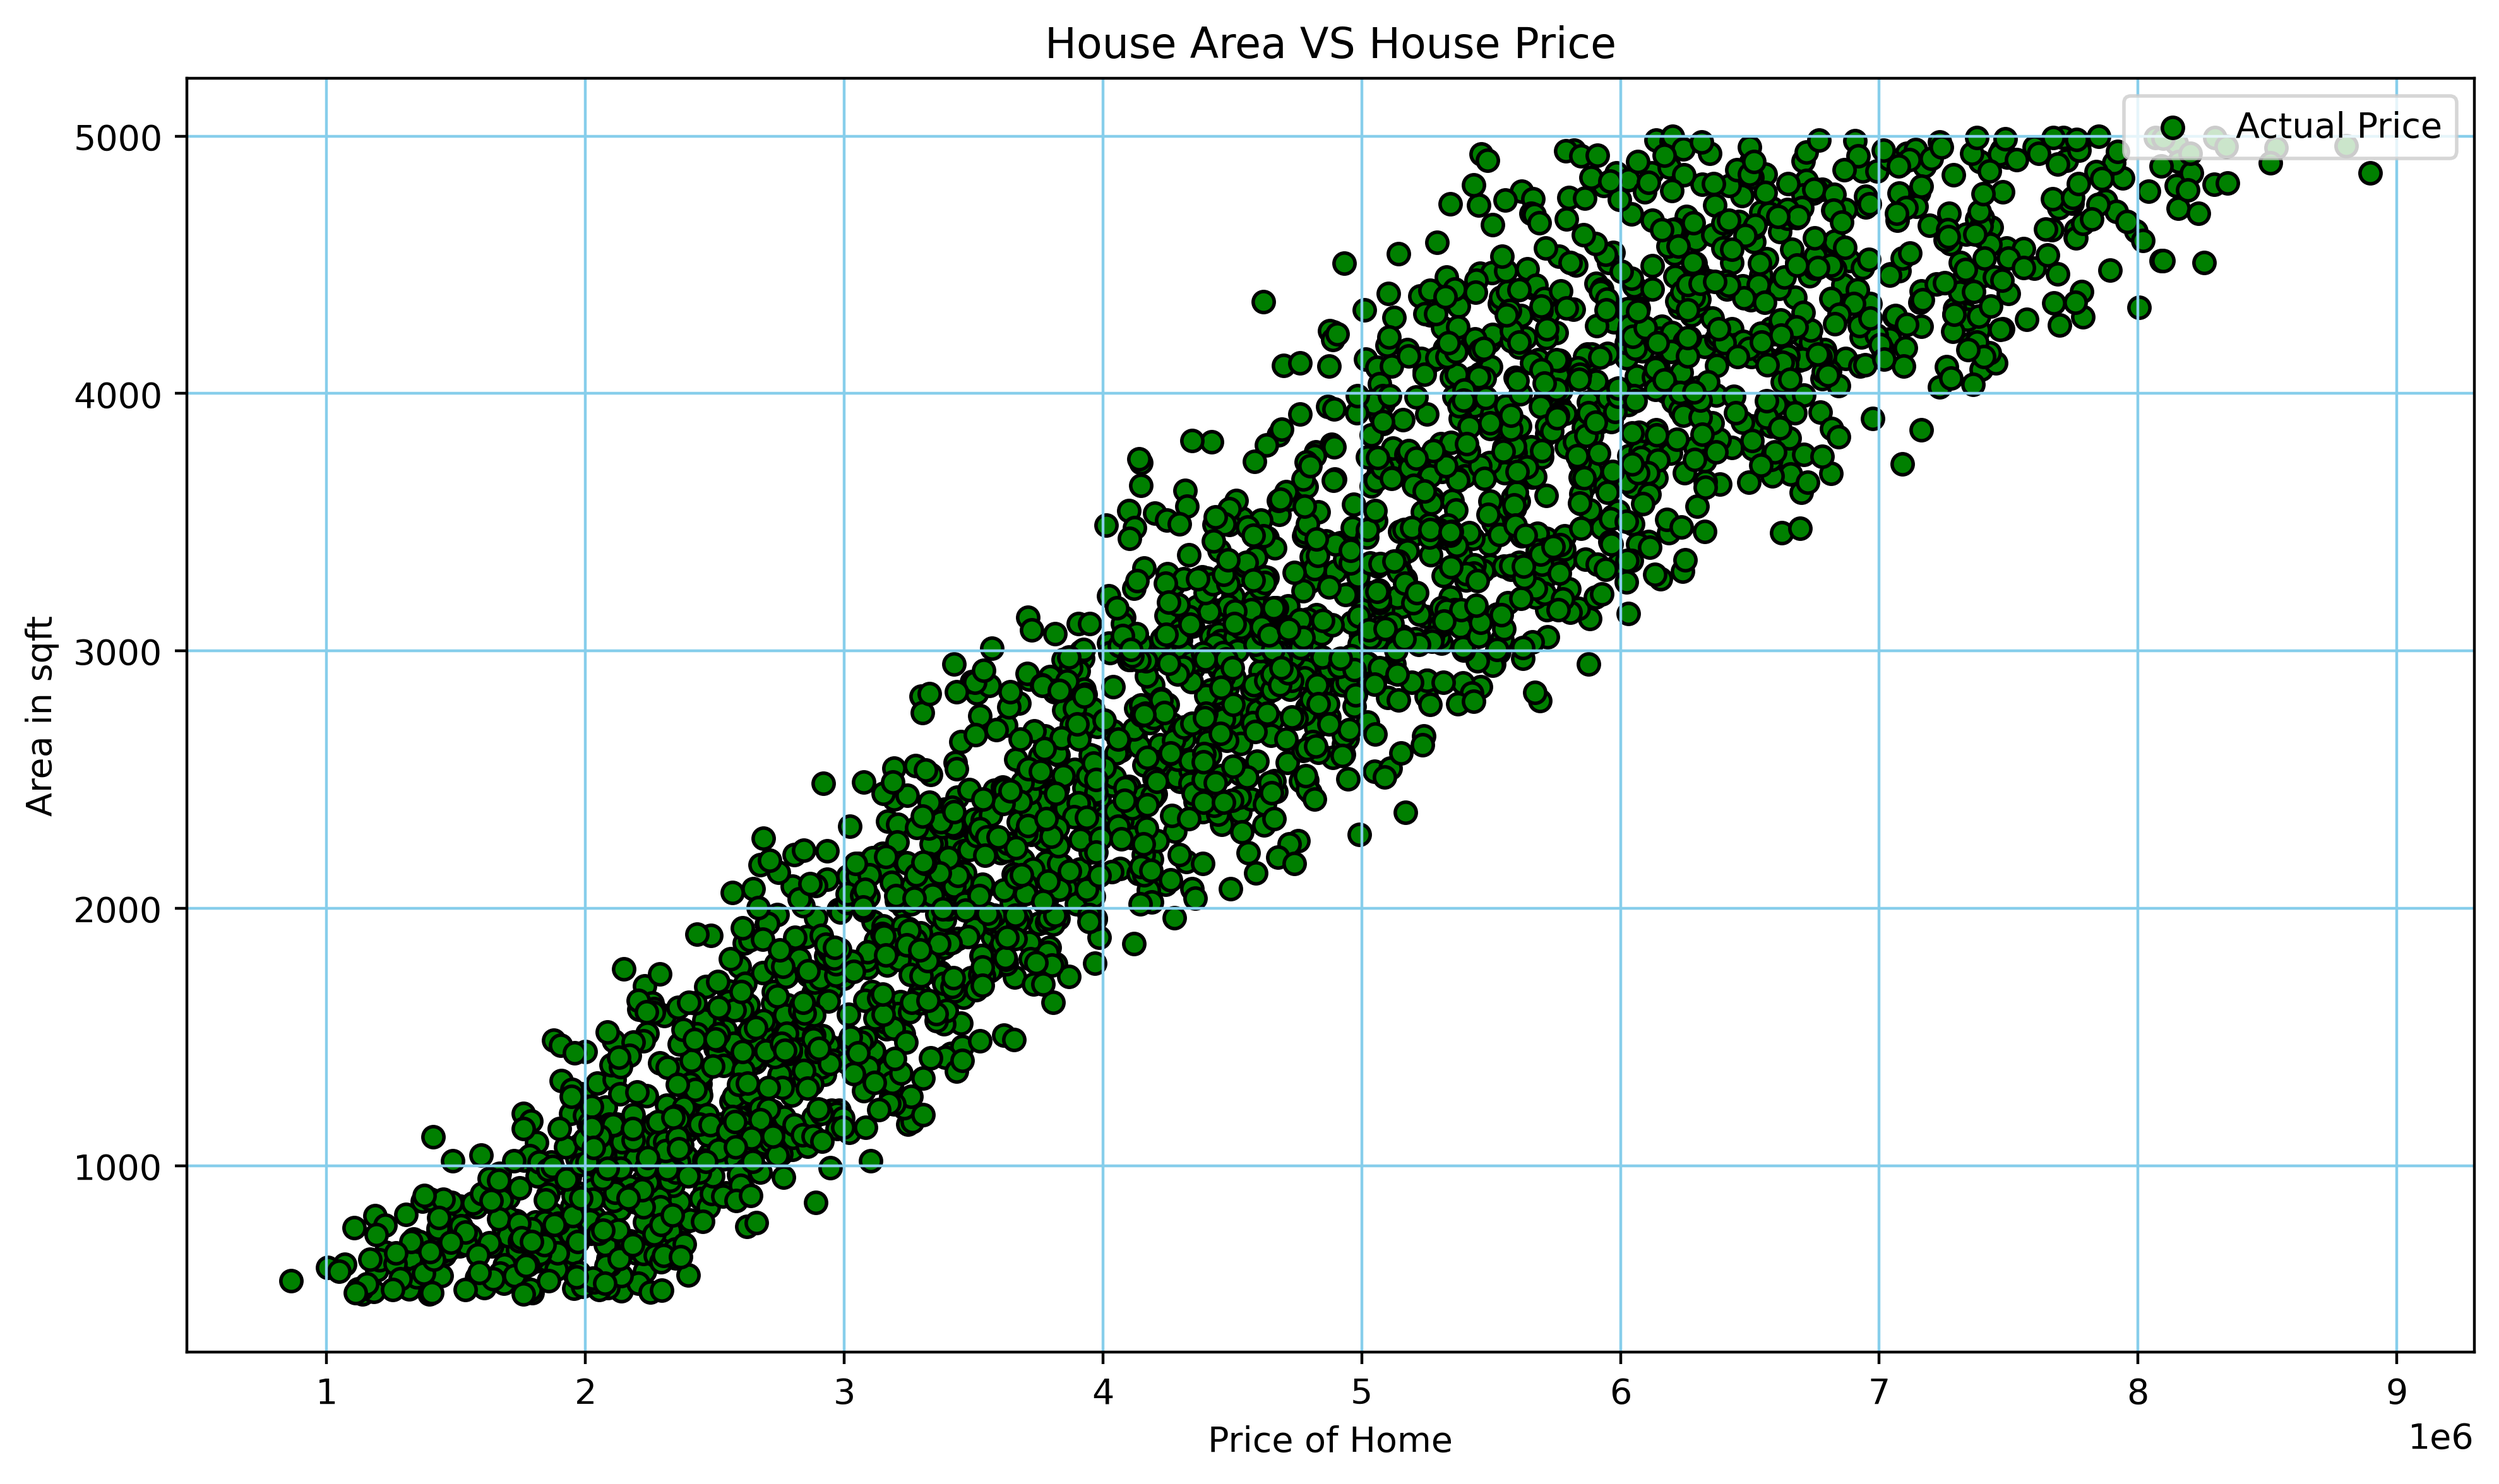
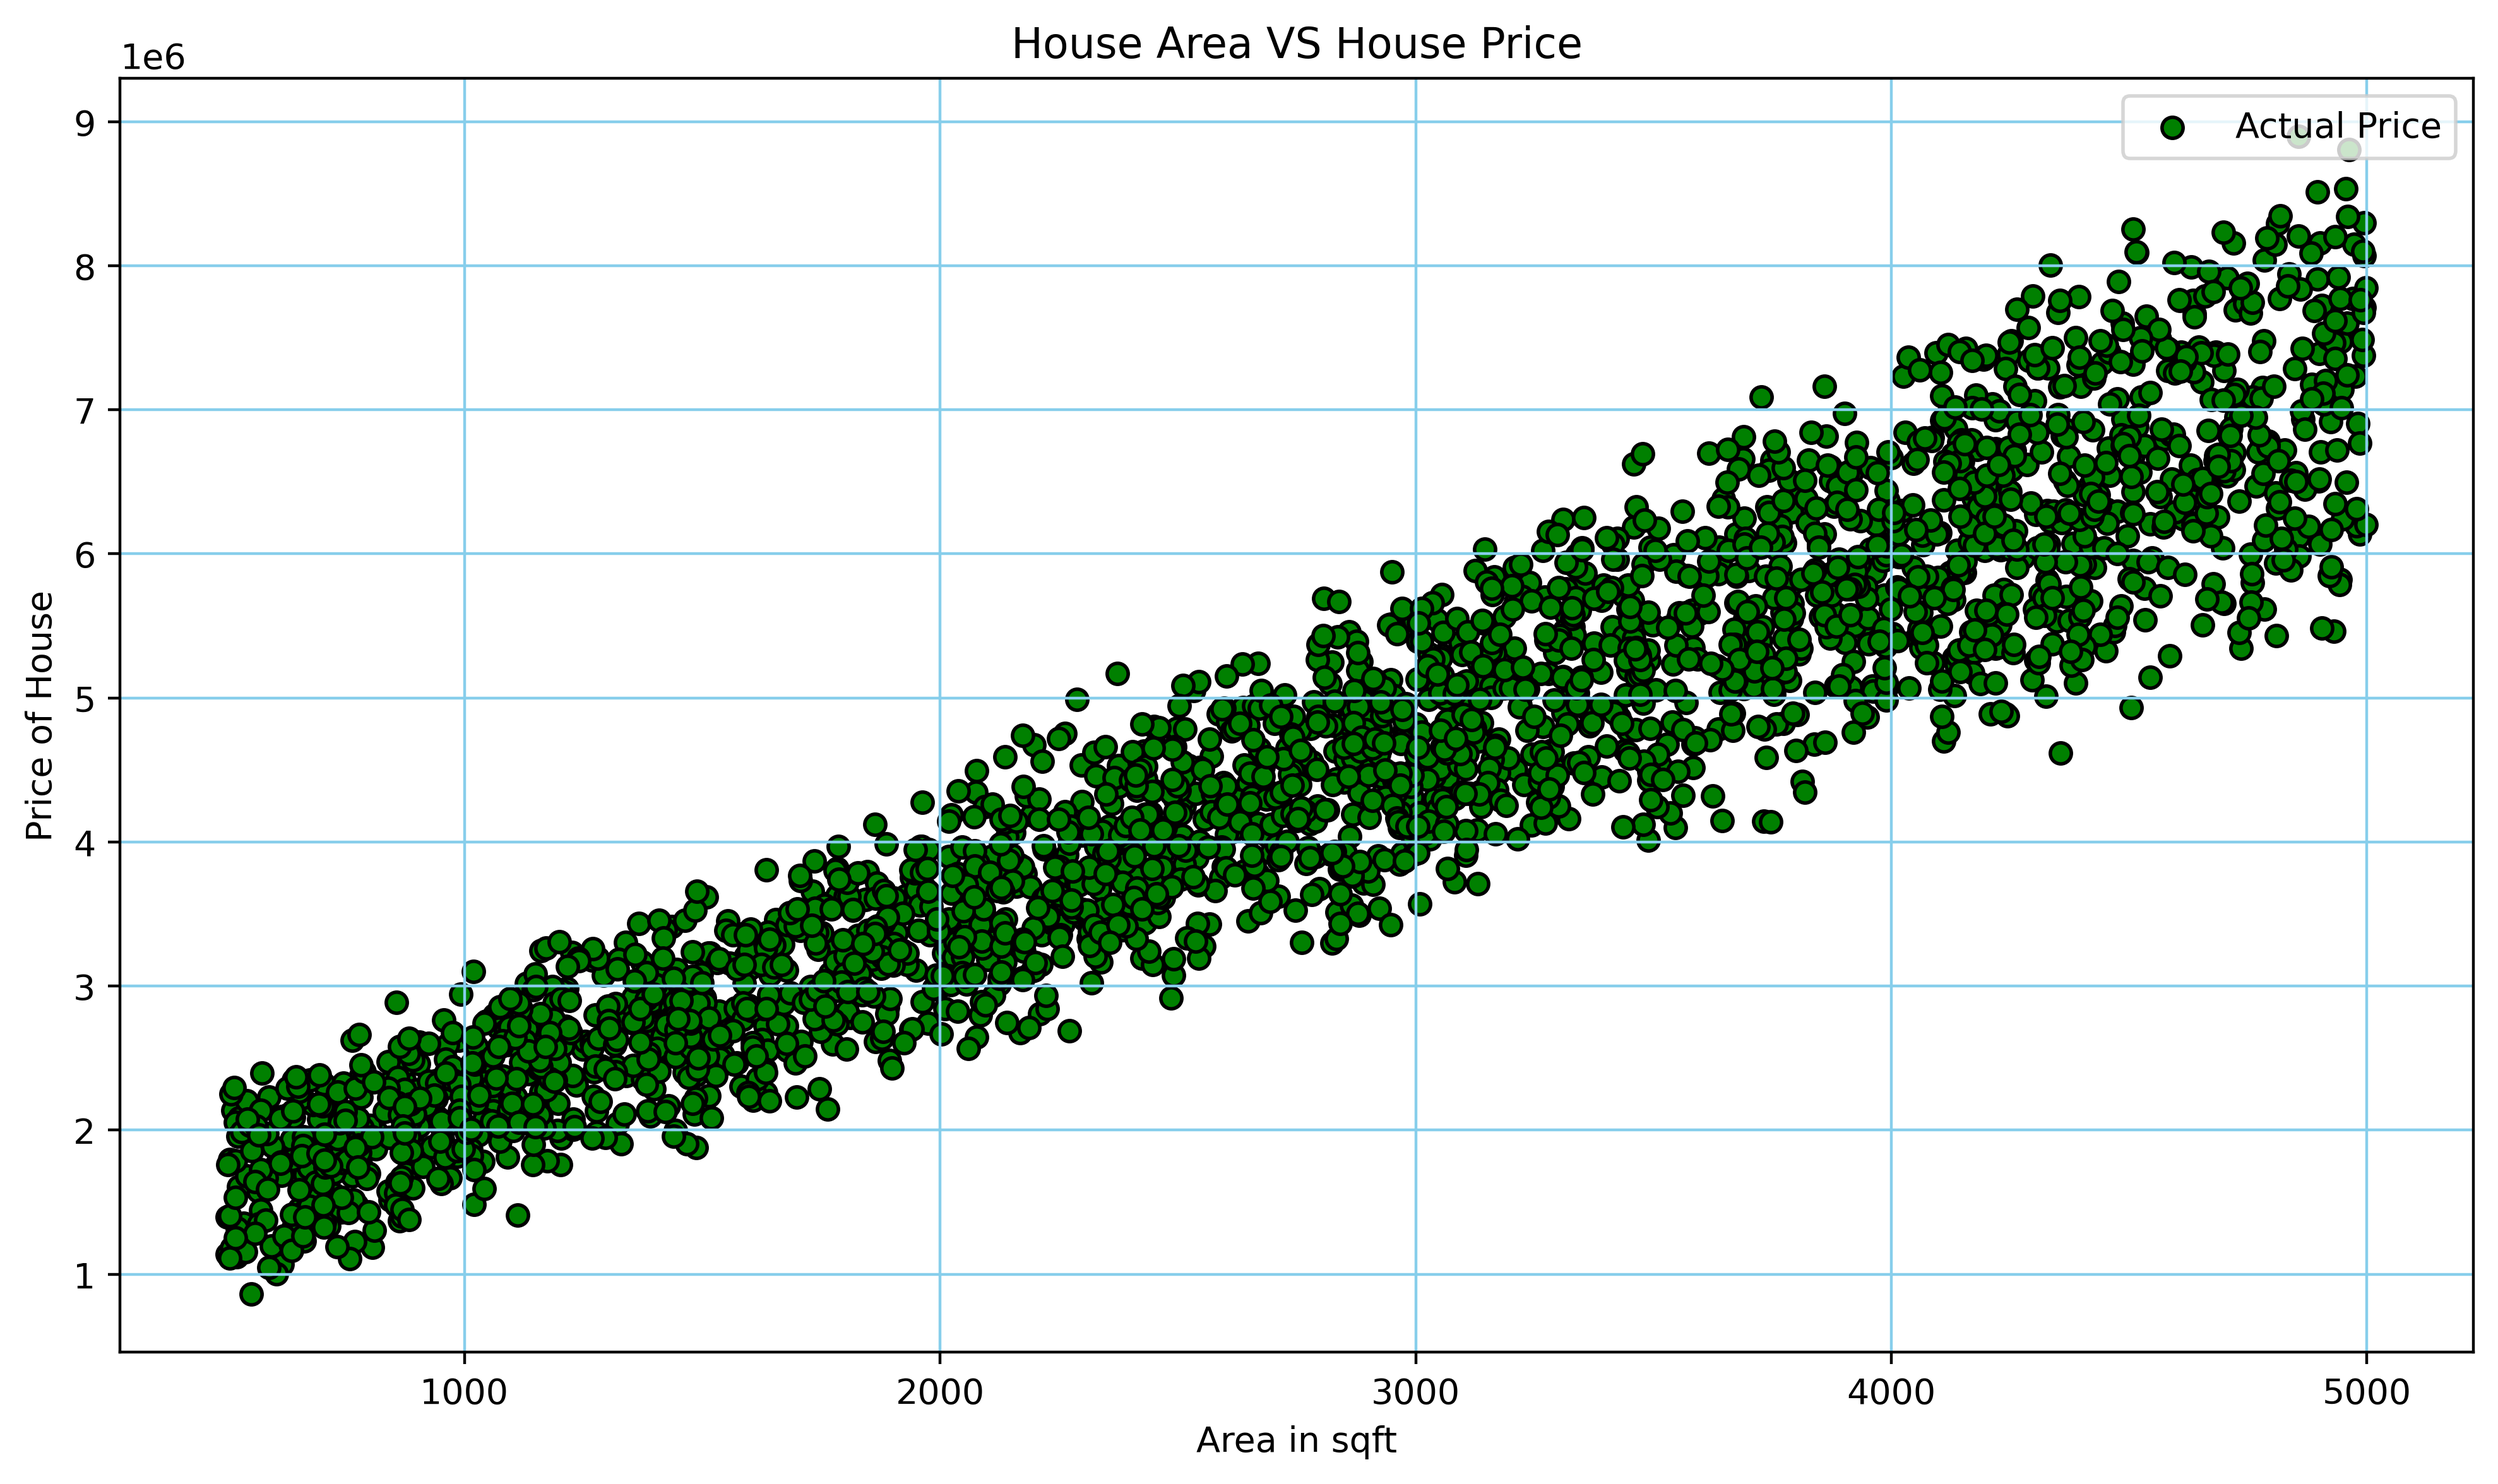
Edited Code

diff --git a/House_Price_prediction.py b/House_Price_prediction.py
@@ -1,110 +1,155 @@
+import os
 import pandas as pd
 from sklearn.linear_model import LinearRegression
-from sklearn.metrics import mean_absolute_error,mean_squared_error,r2_score
+from sklearn.metrics import mean_absolute_error, mean_squared_error, r2_score
 import matplotlib.pyplot as plt
 import numpy as np
 import pickle
 
-#Load the Datasets
+# ==============================
+# Create required directories
+# ==============================
+os.makedirs("model", exist_ok=True)
+os.makedirs("Diagram images", exist_ok=True)
+
+# ==============================
+# Load the Dataset
+# ==============================
 df = pd.read_csv("Data Sheet/house_data.csv")
-print("Letse see the Data of this Datasets......\n")
-df.head()
+print("Let's see the data of this dataset......\n")
+print(df.head())
 
-#Shape of the dataset.
-print(f"The Total Row of this dataset is {df.shape[0]} and thetotal columns of this dataset is {df.shape[1]}.")
+# Shape of the dataset.
+print(
+    f"The total rows of this dataset are {df.shape[0]} "
+    f"and the total columns of this dataset are {df.shape[1]}."
+)
 
-#Check the null values
-print("Let see there is any null values or not........\n")
-df.isnull().sum()
+# Check the null values
+print("\nLet's see if there are any null values or not........\n")
+print(df.isnull().sum())
 
-#Describe the full dataset.
-print("Lets Descibe the data of the all columns........\n")
-df.describe(include='all')
+# Describe the full dataset.
+print("\nLet's describe the data of all columns........\n")
+print(df.describe(include='all'))
 
-#Input and Output
-print("Lets select the Feture.......\n")
-fetures = ["Area_sqft","Bedrooms","Bathrooms","Floors","Year_Built"]
+# ==============================
+# Input and Output
+# ==============================
+print("\nLet's select the features.......\n")
+features = ["Area_sqft", "Bedrooms", "Bathrooms", "Floors", "Year_Built"]
 
-x = df[fetures]
-y = df[["Price"]]
+X = df[features]
+y = df["Price"]  # 1D Series is better for sklearn
 
-#Train Model 
+# ==============================
+# Train Model
+# ==============================
 model1 = LinearRegression()
+model1.fit(X, y)
 
-model1.fit(x,y)
-predicted_price = model1.predict(x)
+predicted_price = model1.predict(X)
 
-#Velid Regression Matric
-print("Lets see the Different parameters of this model.......\n")
-mae = mean_absolute_error(y,predicted_price)
-mse = mean_squared_error(y,predicted_price)
+# ==============================
+# Validate Regression Metrics
+# ==============================
+print("\nLet's see the different parameters of this model.......\n")
+
+y_true = y.values  # 1D array
+y_pred = predicted_price  # 1D array
+
+mae = mean_absolute_error(y_true, y_pred)
+mse = mean_squared_error(y_true, y_pred)
 rmse = np.sqrt(mse)
-r2_score = r2_score(y,predicted_price)
+r2 = r2_score(y_true, y_pred)
 
-print("Mean Absolute Error(MAE):",round(mae,2))
-print("Mean Squared Error(MSE):",round(mse,2))
-print("Root Mean Squared Error(RMSE):",round(rmse,2))
-print("R^2 Score:",round(r2_score,2))
+print("Mean Absolute Error (MAE):", round(mae, 2))
+print("Mean Squared Error (MSE):", round(mse, 2))
+print("Root Mean Squared Error (RMSE):", round(rmse, 2))
+print("R^2 Score:", round(r2, 2))
 
-with open("model/model.pkl","wb") as f:
-    pickle.dump()
+# ==============================
+# Save Model with Pickle
+# ==============================
+with open("model/model.pkl", "wb") as f:
+    pickle.dump(model1, f)
 
-#Histogram Chart
-print("Distribution of the House Price...........\n")
-plt.figure(figsize=(10,6))
-plt.hist(df["Price"],bins=50,color="red",edgecolor="black",label="Distribution of the House Price")
+# ==============================
+# Histogram Chart
+# ==============================
+print("\nDistribution of the House Price...........\n")
+plt.figure(figsize=(10, 6))
+plt.hist(df["Price"], bins=50, color="red", edgecolor="black",
+         label="Distribution of the House Price")
 plt.title("Distribution of the House Price")
 plt.xlabel("House Price")
-plt.ylabel("Number of House")
-plt.grid(True,color="skyblue")
+plt.ylabel("Number of Houses")
+plt.grid(True, color="skyblue")
 plt.tight_layout()
 plt.legend(loc='upper right')
-plt.savefig("Diagram images/Distribution_of_the_House_Price.png",dpi=400,bbox_inches='tight')
+plt.savefig("Diagram images/Distribution_of_the_House_Price.png",
+            dpi=400, bbox_inches='tight')
 plt.show()
 
-#Scatter + Regression Line
+# ==============================
+# Scatter: House Area VS House Price
+# ==============================
 print("House Area VS House Price.......\n")
-plt.figure(figsize=(10,6))
-plt.scatter(df[["Price"]],df[["Area_sqft"]],color="green",edgecolor="black",label="Actual Price")
+plt.figure(figsize=(10, 6))
+plt.scatter(df["Area_sqft"], df["Price"],
+            color="green", edgecolor="black", label="Actual Price")
 plt.title("House Area VS House Price")
-plt.xlabel("Price of Home")
-plt.ylabel("Area in sqft")
-plt.grid(True,color="skyblue")
+plt.xlabel("Area in sqft")
+plt.ylabel("Price of House")
+plt.grid(True, color="skyblue")
 plt.legend(loc='upper right')
 plt.tight_layout()
-plt.savefig("Diagram images/House_Area_VS_House_Price.png",dpi=400,bbox_inches='tight')
+plt.savefig("Diagram images/House_Area_VS_House_Price.png",
+            dpi=400, bbox_inches='tight')
 plt.show()
 
+# ==============================
 # Actual vs Predicted Prices Chart
+# ==============================
 print("Actual vs Predicted House Prices.......\n")
-plt.figure(figsize=(10,6))
-plt.scatter(y, predicted_price, color="green", edgecolor="black", alpha=0.6, label="Predicted vs Actual")
-plt.plot([y.min(), y.max()], [y.min(), y.max()], color="red", linestyle="-", linewidth=2, label="Perfect Prediction Line")
+plt.figure(figsize=(10, 6))
+plt.scatter(y_true, y_pred, color="green", edgecolor="black",
+            alpha=0.6, label="Predicted vs Actual")
+plt.plot(
+    [y_true.min(), y_true.max()],
+    [y_true.min(), y_true.max()],
+    color="red", linestyle="-", linewidth=2,
+    label="Perfect Prediction Line"
+)
 plt.title("Actual vs Predicted House Prices")
 plt.xlabel("Actual Prices")
 plt.ylabel("Predicted Prices")
 plt.grid(True, color="skyblue", linestyle="--", alpha=0.7)
 plt.legend(loc="upper left")
 plt.tight_layout()
-plt.savefig("Diagram images/Actual_vs_Predicted_House_Prices.png", dpi=400, bbox_inches="tight")
+plt.savefig("Diagram images/Actual_vs_Predicted_House_Prices.png",
+            dpi=400, bbox_inches="tight")
 plt.show()
 
-# Predict the Price of the house based on the area in sqft
+# ==============================
+# Predict the Price of a House from User Input
+# ==============================
+print("\nNow let's predict the price of a house based on your input...\n")
 
-x = df[["Area_sqft","Bedrooms","Bathrooms","Floors","Year_Built"]]
-y = df[["Price"]]
+Area_sqft = float(input("Enter the Area of the house (in sqft): "))
+bedrooms = int(input("Enter the number of Bedrooms: "))
+bathrooms = float(input("Enter the number of Bathrooms: "))
+floors = float(input("Enter the number of Floors: "))
+year_built = int(input("Enter the build year of the House: "))
 
-#Train Model 
-model1 = LinearRegression()
+user_features = [[Area_sqft, bedrooms, bathrooms, floors, year_built]]
+predicted_price_input = model1.predict(user_features)
 
-model1.fit(x,y)
-
-Area_sqft = float(input("Enter the Area of the house(in sqft):"))
-bedrooms = int(input("Enter the number of Bedrooms:"))
-bathrooms = float(input("Enter the Bathroom:"))
-floors = float(input("Enter the number of the floors:"))
-year_built = int(input("Enter the build year of the House:"))
-
-predicted_price = model1.predict([[Area_sqft,bedrooms,bathrooms,floors,year_built]])
-
-print(f"Area of House is {Area_sqft} and bedrooms is {bedrooms} and bathrooms is {bathrooms} in the {floors} floor and the build year is {year_built} so accordingly this all the infotmation the predicted price of the house is {predicted_price[0][0]:,.2f}.")
+print(
+    f"\nArea of house is {Area_sqft} sqft, bedrooms: {bedrooms}, "
+    f"bathrooms: {bathrooms}, floors: {floors}, built in {year_built}."
+)
+print(
+    f"According to this information, the predicted price of the house is "
+    f"{predicted_price_input[0]}."
+)
